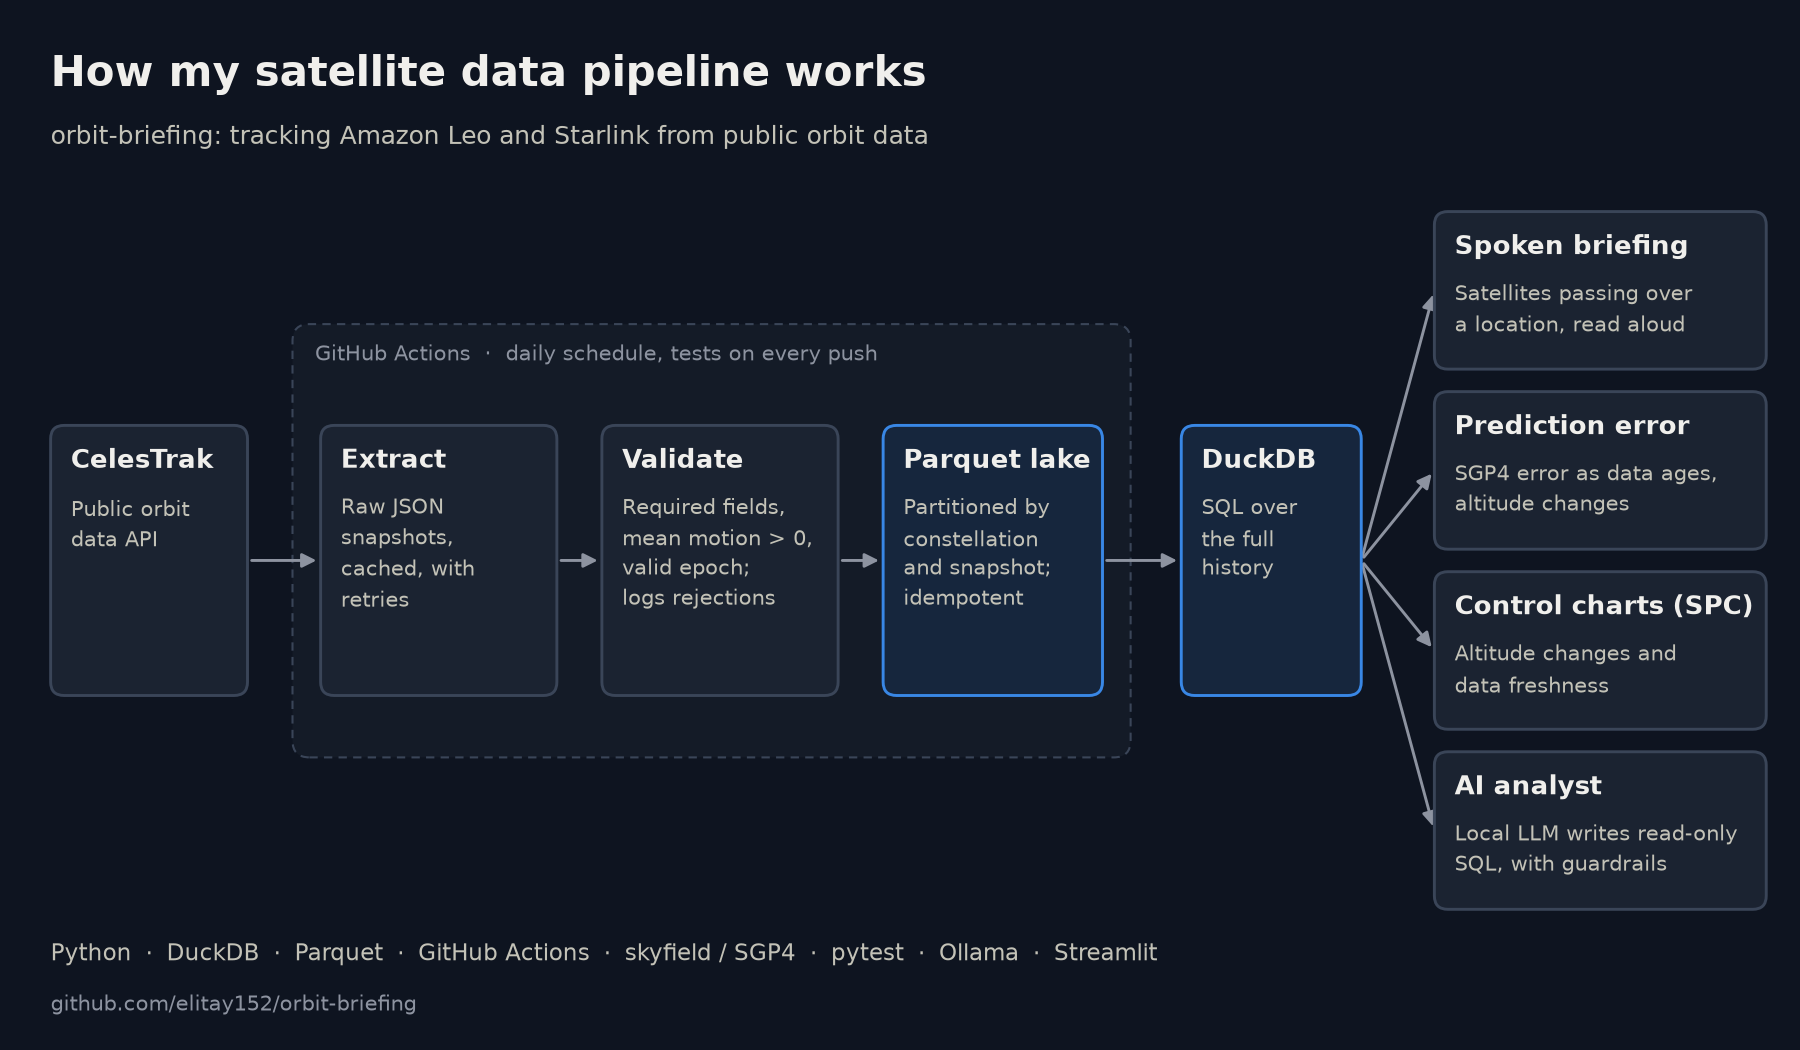
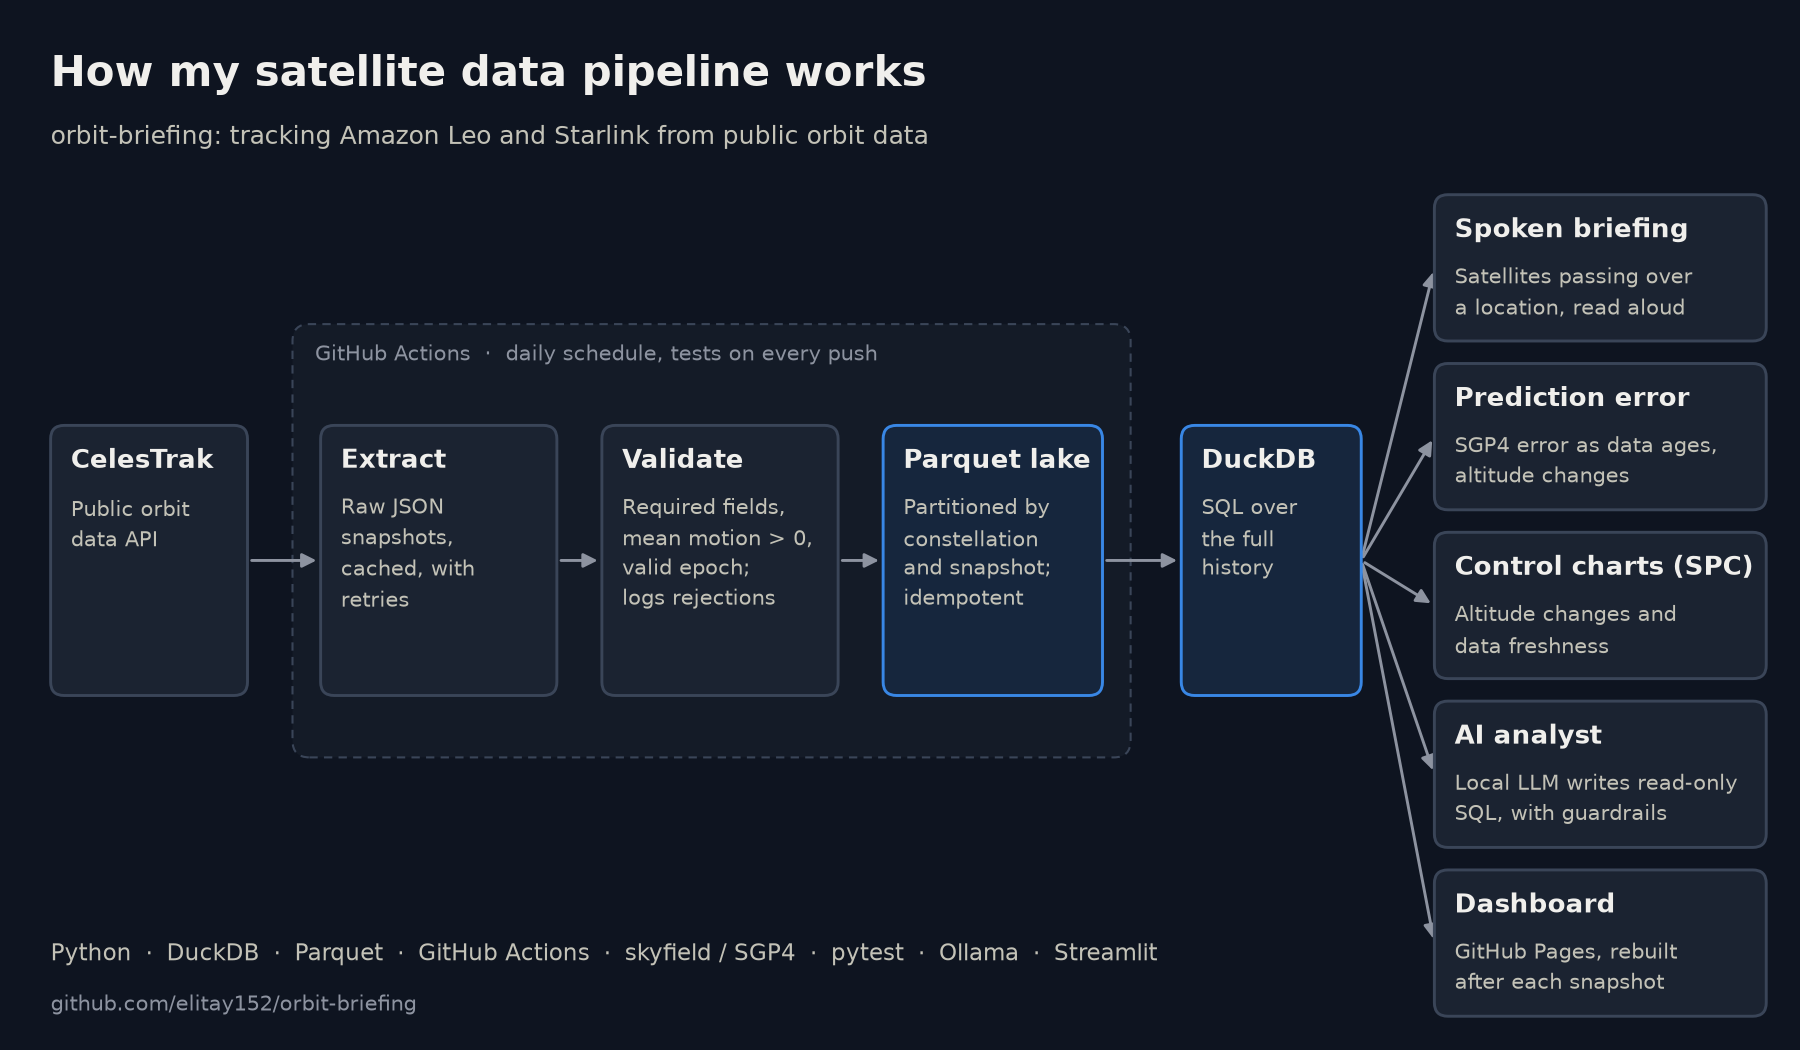
Add the dashboard to the pipeline diagram
The GitHub Pages dashboard is now one of the pipeline's outputs, so the
diagram gets a fifth output box for it. The output boxes are slightly
shorter so all five fit in the same height.

Changed region(s): [[0.7467, 0.1829, 0.9956, 0.9752], [0.9644, 0.8533, 0.9956, 0.8838], [0.7467, 0.3962, 0.7778, 0.4267]]

diff --git a/orbit/site/diagram.py b/orbit/site/diagram.py
@@ -75,14 +75,16 @@ def draw_diagram(out_path: Path) -> Path:
 
     # outputs
     outputs = [
-        (6.05, "Spoken briefing", ["Satellites passing over", "a location, read aloud"]),
-        (4.45, "Prediction error", ["SGP4 error as data ages,", "altitude changes"]),
-        (2.85, "Control charts (SPC)", ["Altitude changes and", "data freshness"]),
-        (1.25, "AI analyst", ["Local LLM writes read-only", "SQL, with guardrails"]),
+        (6.3, "Spoken briefing", ["Satellites passing over", "a location, read aloud"]),
+        (4.8, "Prediction error", ["SGP4 error as data ages,", "altitude changes"]),
+        (3.3, "Control charts (SPC)", ["Altitude changes and", "data freshness"]),
+        (1.8, "AI analyst", ["Local LLM writes read-only", "SQL, with guardrails"]),
+        (0.3, "Dashboard", ["GitHub Pages, rebuilt", "after each snapshot"]),
     ]
+    box_h = 1.3
     for y, title, lines in outputs:
-        box(ax, 12.75, y, 2.95, 1.4, title, lines)
-        arrow(ax, (12.1, mid), (12.75, y + 0.7))
+        box(ax, 12.75, y, 2.95, box_h, title, lines)
+        arrow(ax, (12.1, mid), (12.75, y + box_h / 2))
 
     # footer: stack
     ax.text(0.45, 0.85, "Python  ·  DuckDB  ·  Parquet  ·  GitHub Actions  ·  skyfield / SGP4  ·  "
